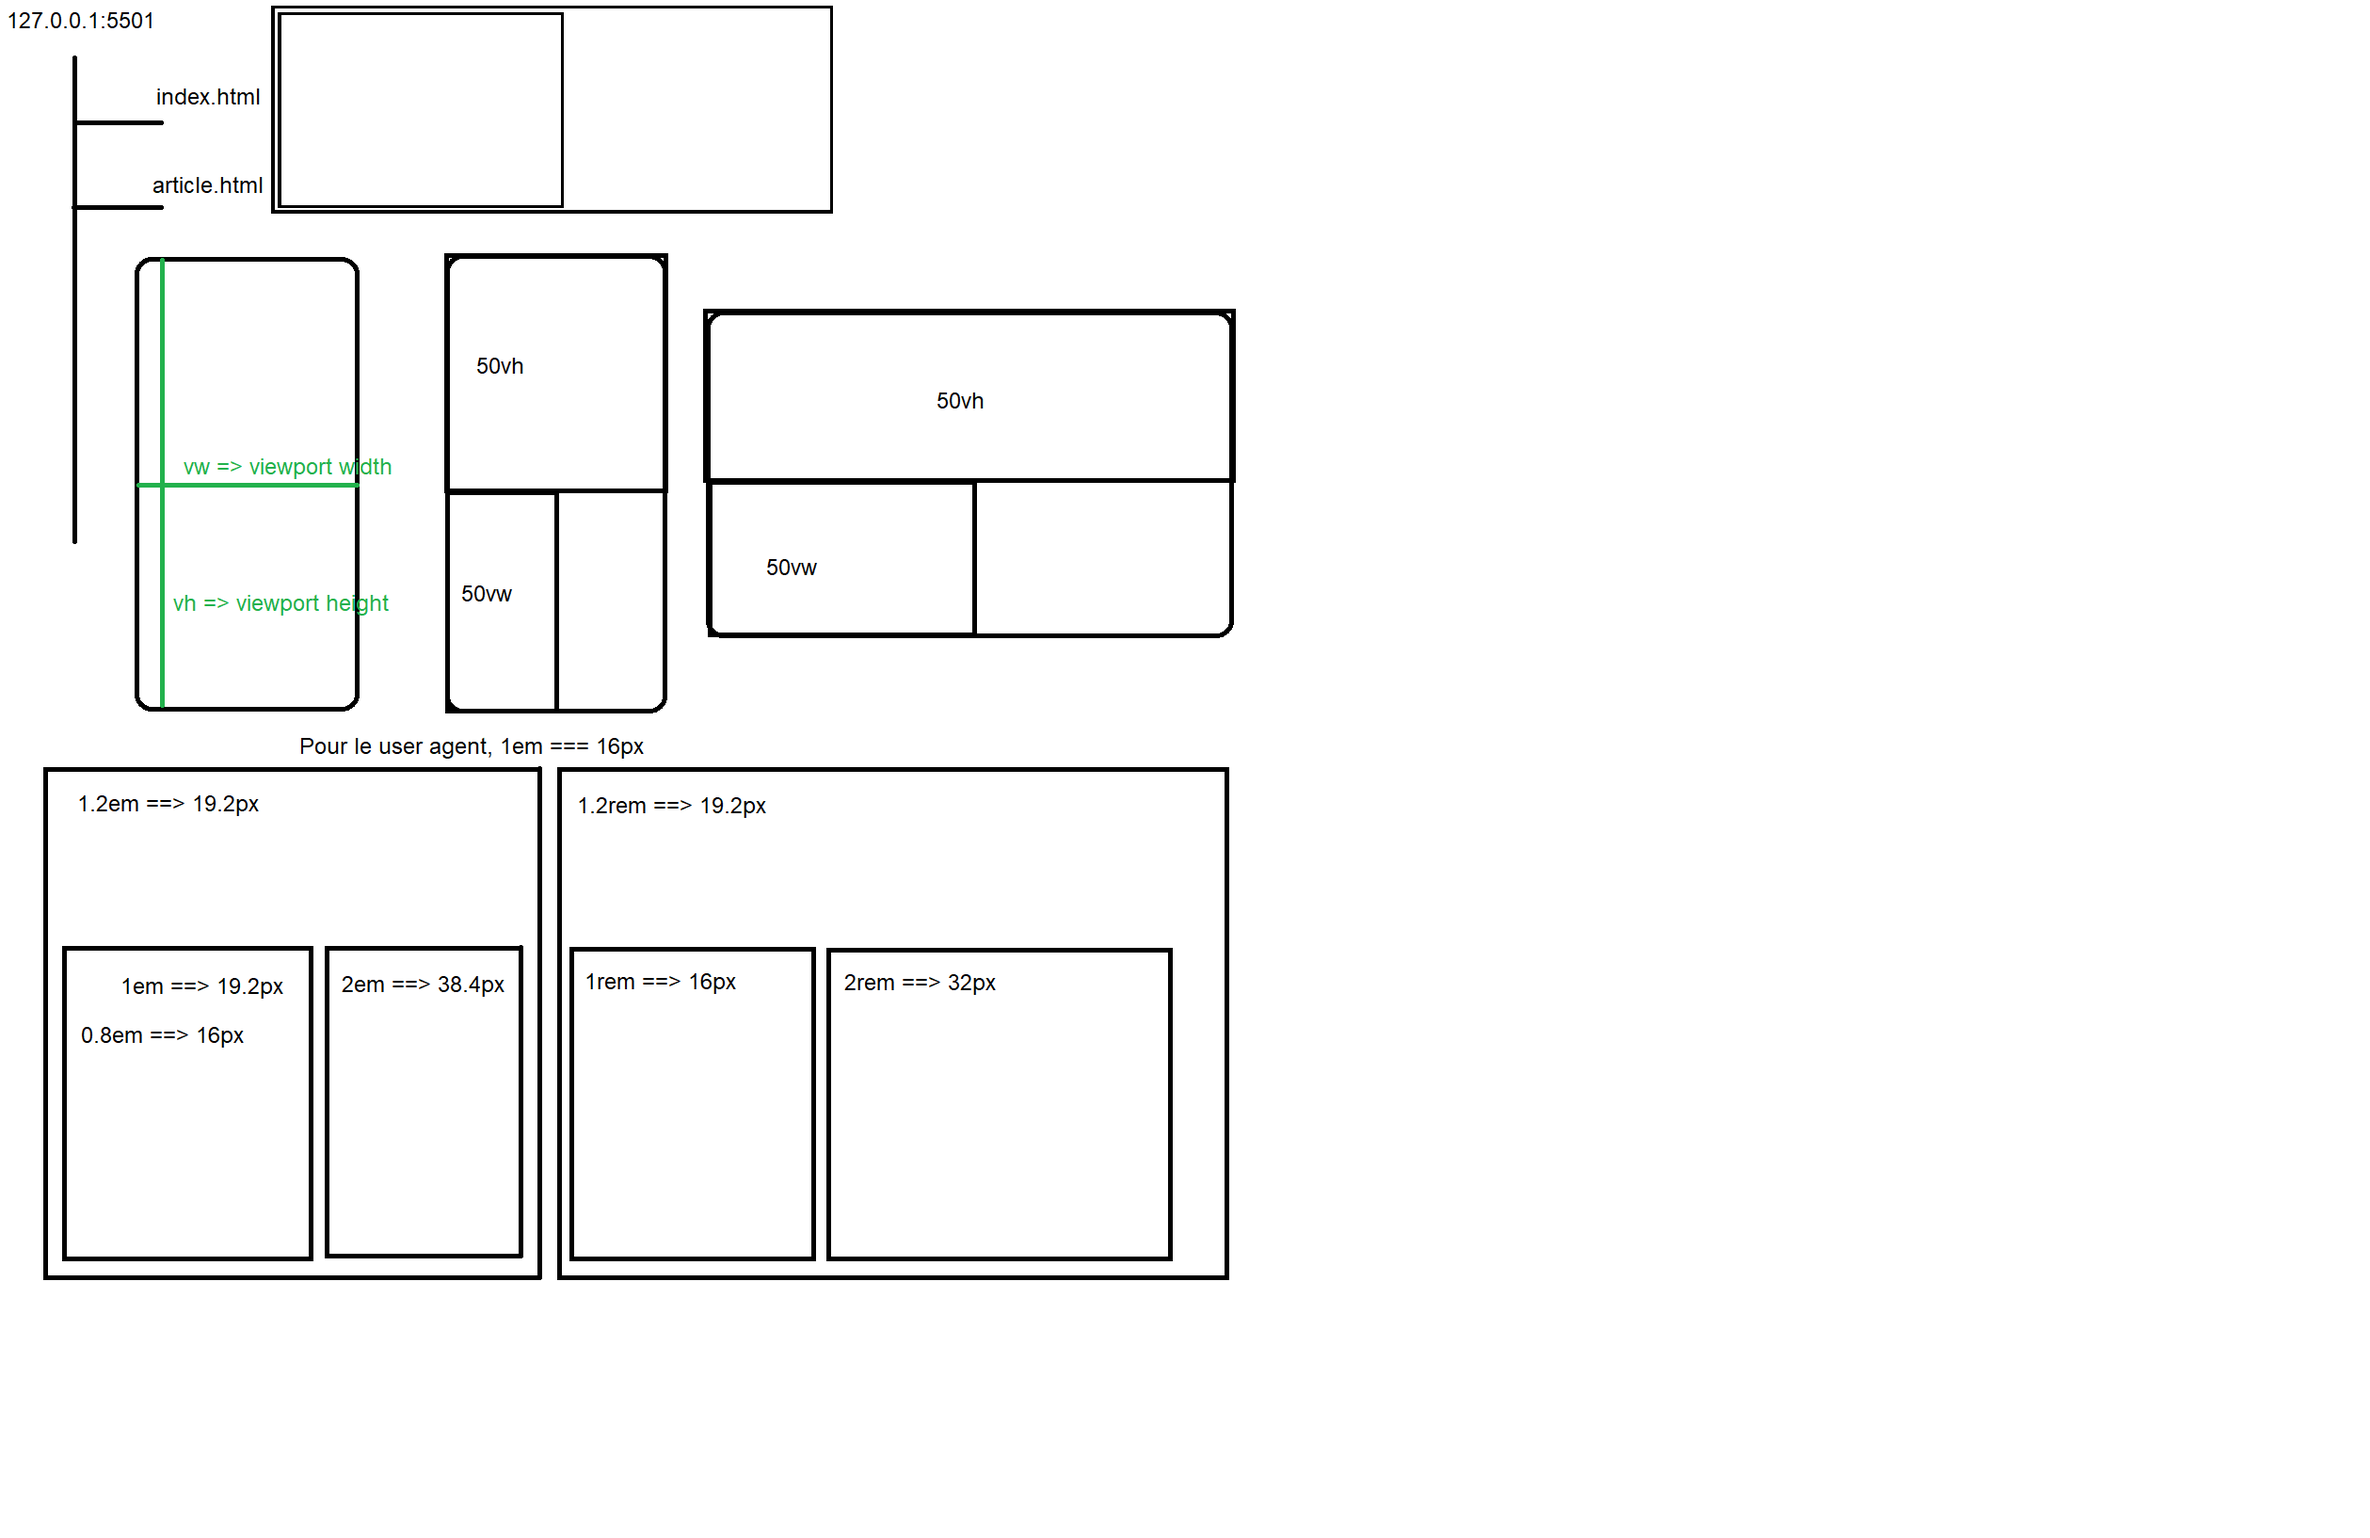
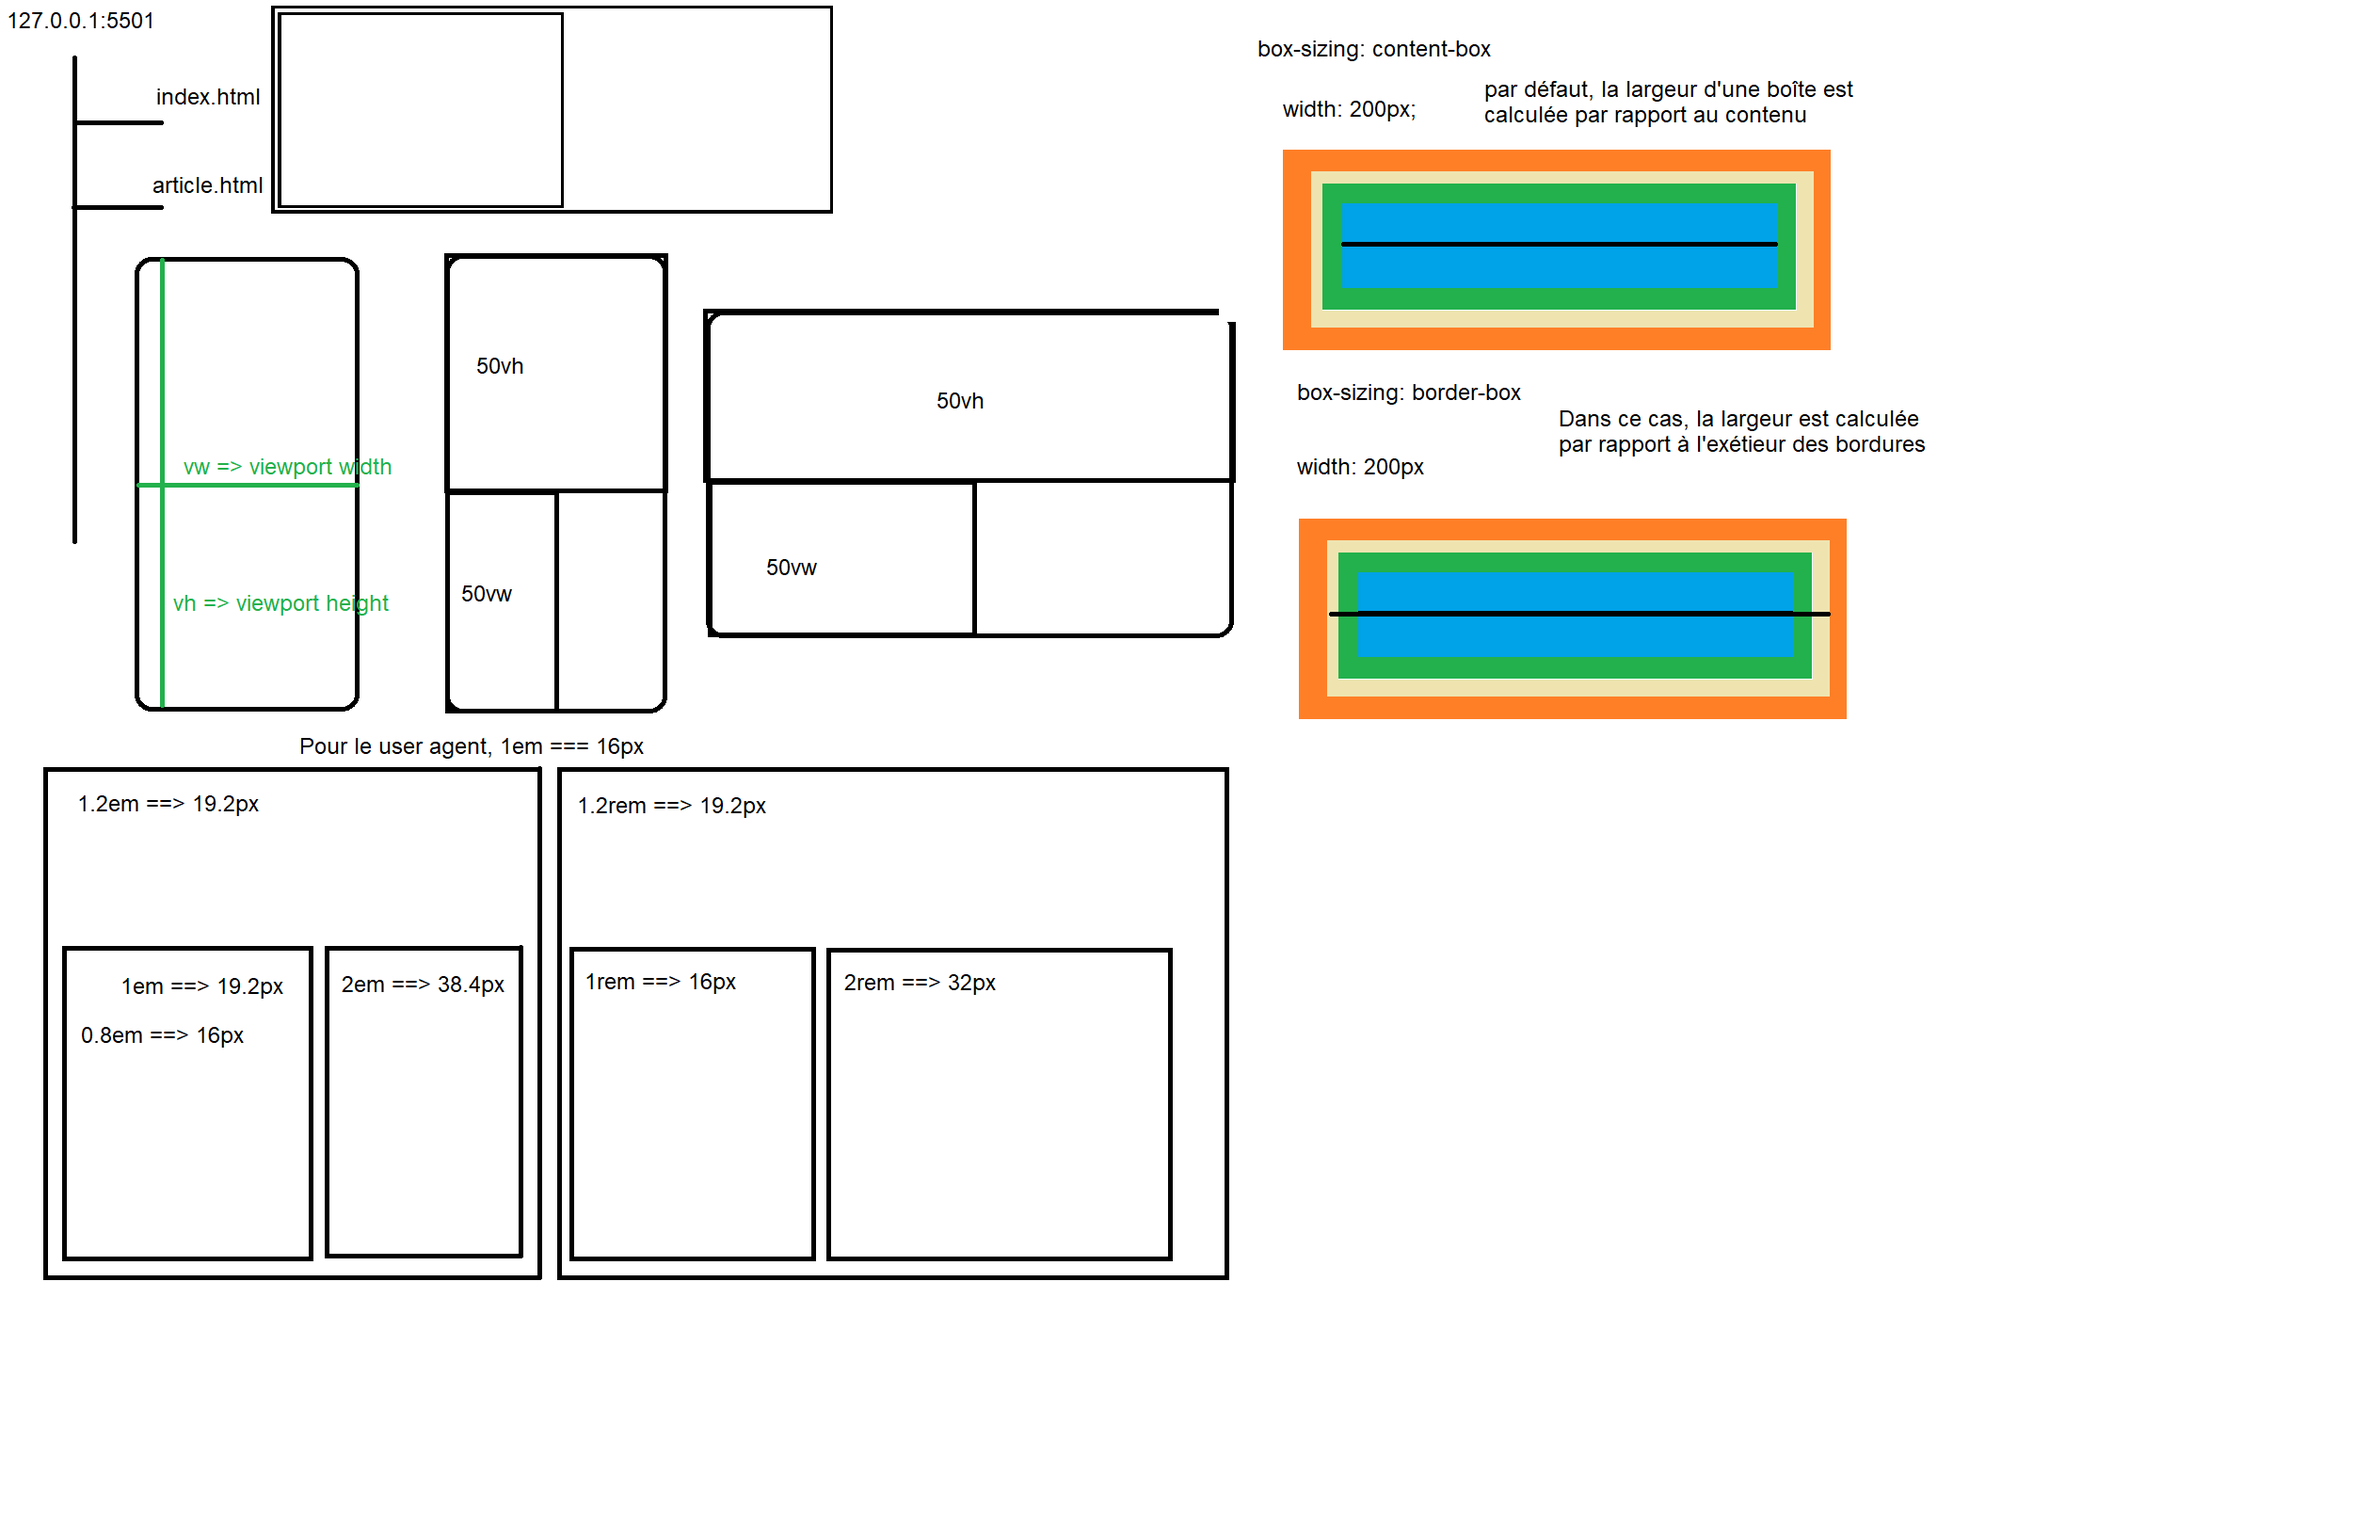
html pt4 - des éléments pour le texte et les problème du CSS user agent

Changed region(s): [[0.5266, 0.0312, 0.8054, 0.4682]]

diff --git a/index.html b/index.html
@@ -17,13 +17,19 @@
         </header>
         <nav>
             <ul>
-                <li><a href="./" target="_self" title="Lien vers l'accueil du site">Accueil</a></li>
-                <li><a href="./article.html" target="_self" title="Lien vers la page article">Article</a></li>
-                <li><a href="./contact.html" target="_self" title="Lien vers le formulaire de contact">Contact</a></li>
+                <li>
+                    <a href="./" target="_self" title="Lien vers l'accueil du site">Accueil</a></li>
+                <li>
+                    <a href="./article.html" target="_self" title="Lien vers la page article">Article</a></li>
+                <li>
+                    <a href="./contact.html" target="_self" title="Lien vers le formulaire de contact">Contact</a></li>
                 <li><a href="./media.html" target="_self" title="Lien vers la page media">Media</a></li>
-                <li><a href="./animation.html" target="_self" title="Lien vers les animation en CSS">Animation</a></li>
-                <li><a href="./trucs.html" target="_self" title="Lien vers la page des trucs CSS utiles">Trucs CSS</a></li>
-                <li><a href="./bootstrap.html" target="_self" title="Lien vers une page utilisant Bootstrap">Bootstrap</a></li>
+                <li>
+                    <a href="./animation.html" target="_self" title="Lien vers les animation en CSS">Animation</a></li>
+                <li>
+                    <a href="./trucs.html" target="_self" title="Lien vers la page des trucs CSS utiles">Trucs CSS</a></li>
+                <li>
+                    <a href="./bootstrap.html" target="_self" title="Lien vers une page utilisant Bootstrap">Bootstrap</a></li>
             </ul>
         </nav>
         <main>
@@ -32,8 +38,8 @@
                     <span>Table des matières</span>
                     <ol type="I">
                         <li><a href="#balises-contenu" title="Aller à la partie Balises de contenu texte">Les balises de contenu texte</a></li>
-                        <li><a href="#" title=""></a></li>
-                        <li><a href="#" title=""></a></li>
+                        <li><a href="#balises-texte" title="Aller à la partie Balises sur le texte">Les balises sur le texte</a></li>
+                        <li><a href="#problemes-en-css" title="Aller à la partie Problèmes courants en CSS">Problèmes courants en CSS</a></li>
                     </ol>
                 </aside>
             </section>
@@ -89,6 +95,81 @@ Vel autem earum assumenda incidunt.</pre>
     &lt;/h1&gt;
 &lt;/body&gt;
 </pre>
+                    </main>
+                    <footer>
+                        <a href="./article.html"><button>Lire +</button></a>
+                    </footer>
+                </article>
+                <article>
+                    <header>
+                        <h2 id="balises-texte">Des balises sur le texte</h2>
+                    </header>
+                    <main>
+                        <p>
+                            Autrefois, on utilisait la balise <code>&lt;font&gt;</code> pour changer la police de caractère, la taille et la couleur d'une zone de texte. Cette balise est désormais <font color="#be0000" face="Time New Roman" size="5">décommissionnée</font>, mais est pour l'instant toujours interprétée par les navigateur.
+                        </p>
+                        <p>
+                            A la place de <code>&lt;font&gt;</code>, on utilisera plutôt les balises adaptée pour l'italique, le gras, etc, et la balise <code>&lt;span&gt;</code> associée à une <span class="rouge-gras">classe</span> pour ce qui est du changement de police de caractère, de taille ou de couleur.
+                        </p>
+                        <p>
+                            Certaines balises ajoutent du contenu dans l'espace qui se siture entre le début de la balise et le contenu <span class="ex-before">(entre la bordure et le contenu)</span>.
+                        </p>
+                        <p>
+                            H<sub>2</sub>SO<sub>4</sub><sup>2-</sup> 
+                        </p>
+                        <p>
+                            Lorem ipsum, dolor sit amet consectetur adipisicing elit. <small>Mollitia</small> est quia, accusantium dicta esse consequuntur quis! Vitae, modi dicta id ab a temporibus quo ratione mollitia, necessitatibus optio itaque laudantium.
+                        </p>
+                        <p>
+                            En web, on ne <u>souligne</u> jamais du texte s'il n'est pas un lien vers un autre document. Les visiteurs pourraient confondre avec un lien et penser que le site est cassé. On peut en revanche <s>biffer</s> du texte ou <mark>surligner au marqueur jeune fluo une série de mot</mark>
+                        </p>
+                    </main>
+                    <footer>
+                        <a href="./article.html"><button>Lire +</button></a>
+                    </footer>
+                </article>
+                <article>
+                    <header>
+                        <h2 id="problemes-en-css">Problèmes courants en CSS</h2>
+                    </header>
+                    <main>
+                        <p>
+                            Les tailles des éléments sont définis par défaut sur le contenu des éléments, c'est à dir que si je définie une div de 200px de large, avec une marge intérieure de 10px et une bordure de 1px
+                            de large, la place totale de l'élément sur l'écran sera de :
+                            200px + 10px + 10px + 1px + 1px (contenu + marge intérieur gauche + marge intérieur droite +
+                            largeur bordure à gauche + largeur bordure à droite ) => 222px.<br />
+                            c'est la propriété css box-sizing qui est à 'content-box' par défaut.<br />
+                            Pour éviter cela, on appliquera 'border-box' à tous les éléments grace au caractère spécial *
+                            dans la déclaration CSS.
+                        </p>
+                        <pre>
+                            <code>
+*, *::before, *::after{
+    box-sizing: border-box;
+}
+                            </code>
+                        </pre>
+                        <div class="content-width">
+                            Content box: <br />
+                            Lorem ipsum dolor sit amet consectetur adipisicing elit. Ut accusantium, dolores.
+                        </div>
+                        <div class="border-width">
+                            Border box: <br />
+                            Lorem ipsum dolor sit amet consectetur adipisicing elit. Ut accusantium, dolores.
+                        </div>
+                        <h3>EM vs REM</h3>
+                        <div class="deux-em">
+                            Coucou
+                            <div class="deux-em">
+                                Coucou
+                            </div>
+                        </div>
+                        <div class="deux-rem">
+                            Coucou
+                            <div class="deux-rem">
+                                Coucou
+                            </div>
+                        </div>
                     </main>
                     <footer>
                         <a href="./article.html"><button>Lire +</button></a>

diff --git a/css/style.css b/css/style.css
@@ -10,8 +10,83 @@ vw & vh     =>  vw : viewport width; vh : viewport height
 
 */
 
+/* il est possible d'importer des fichiers CSS sans une autre fichier CSS, cependant, il est obligatoire de faire ces imports en tout premier */
+
+@import url('./bootstrap-icons.css');
+
+/* les déclarations dans le :root */
 :root{
     font-family: Arial, Helvetica, sans-serif;
     font-size: 1.1rem;
     line-height: 1.7rem;
+    /* 
+    il est possible en CSS de déclarer des variables, qui peuvent contenir :  
+    - des couleurs CSS
+    - des tailles en px, rem, vh, etc
+    */
+    --site-header-bg: #333333;
+    --site-header-color: white;
+}
+
+/* déclarations générales */
+
+*, *::before, *::after{
+    box-sizing: border-box;
+}
+
+pre{
+    text-wrap: wrap;
+}
+
+/* déclarations des classes */
+
+.rouge-gras{
+    color: #9c0000;
+    font-weight: bold;
+    font-family: 'Times New Roman', Times, serif;
+    font-size: larger;
+}
+
+.ex-before::before{
+    font-family: 'bootstrap-icons';
+    content: '\f430';
+}
+
+.ex-before::after{
+    font-family: 'bootstrap-icons';
+    content: '\f430';
+}
+
+
+.content-width,
+.border-width{
+    width: 200px;
+    padding: 10px;
+    border: 1px solid var(--site-header-bg);
+    margin: 0.5rem;
+}
+
+.content-width{
+    box-sizing: content-box;
+}
+
+.deux-em{
+    font-size: 2em;
+    margin: 1rem;
+}
+
+.deux-rem{
+    font-size: 2rem;
+    margin: 1rem;
+}
+
+/* déclarations de structure */
+
+body{
+    margin: 0;
+}
+
+body > header{
+    background-color: var(--site-header-bg);
+    color: var(--site-header-color);
 }
